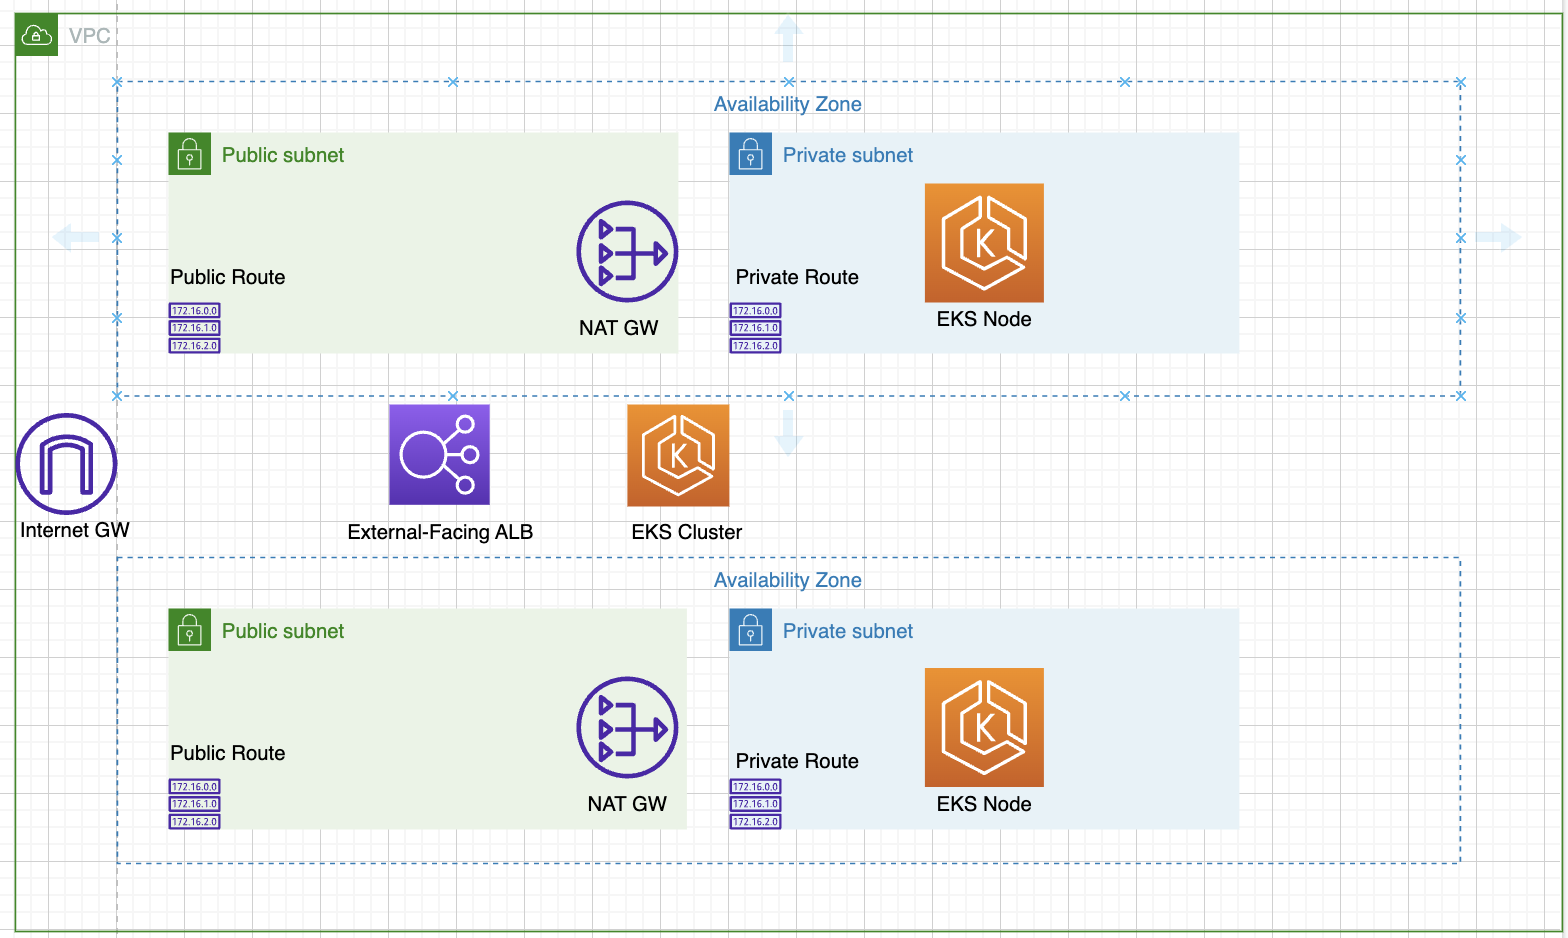
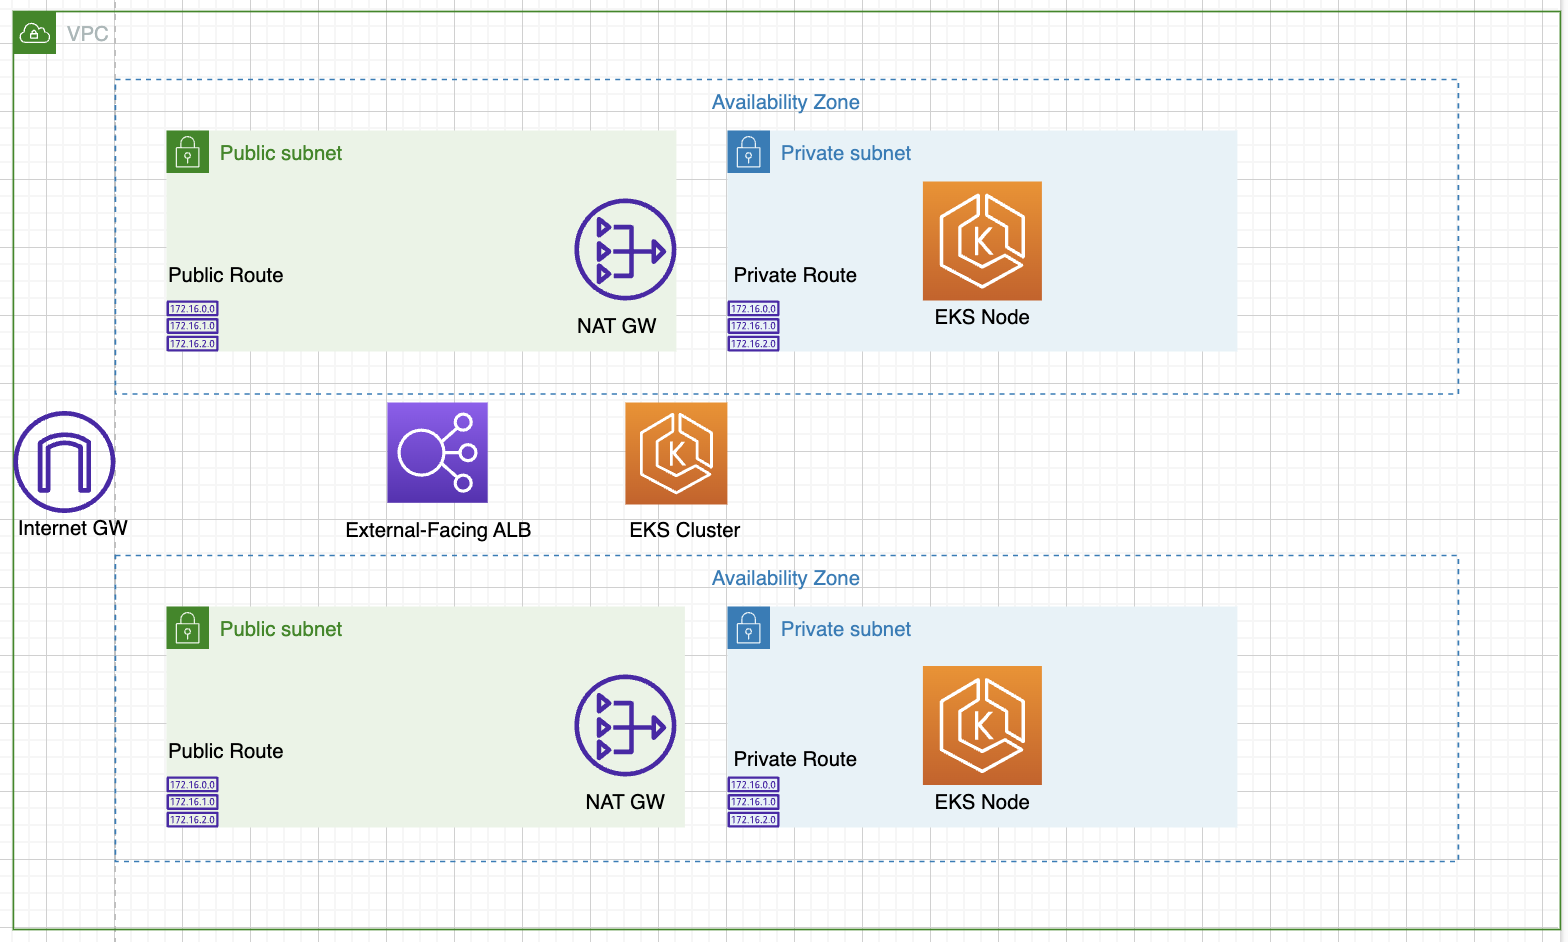
Modified readme with infra diagram

diff --git a/README.md b/README.md
@@ -1,7 +1,6 @@
 <!-- Logos -->
 <!-- ![Tomcat image](/.attachments/tomcat-logo.png =250x200) -->
 ![Monkey Typing](/.attachments/monkey.gif)
-![Architecture diagram](/.attachments/eks-project.png)
 
 <!-- Intro -->
 # Introduction
@@ -9,6 +8,9 @@ Repository for aws elastic kubernetes service project. Infrastructure terraform 
 
 # CI/CD
 A yaml configuration file is included that is compatible with Microsoft Azure DevOps platform. The pipeline configuration runs a development pipeline that only triggers with branches that are not equal to main and a production branch that triggers when a merge occurs.
+
+# Infrastructure diagram:
+![Architecture diagram](/.attachments/eks-project.png)
 
 <!-- Dir Summary -->
 # Directory Guide
